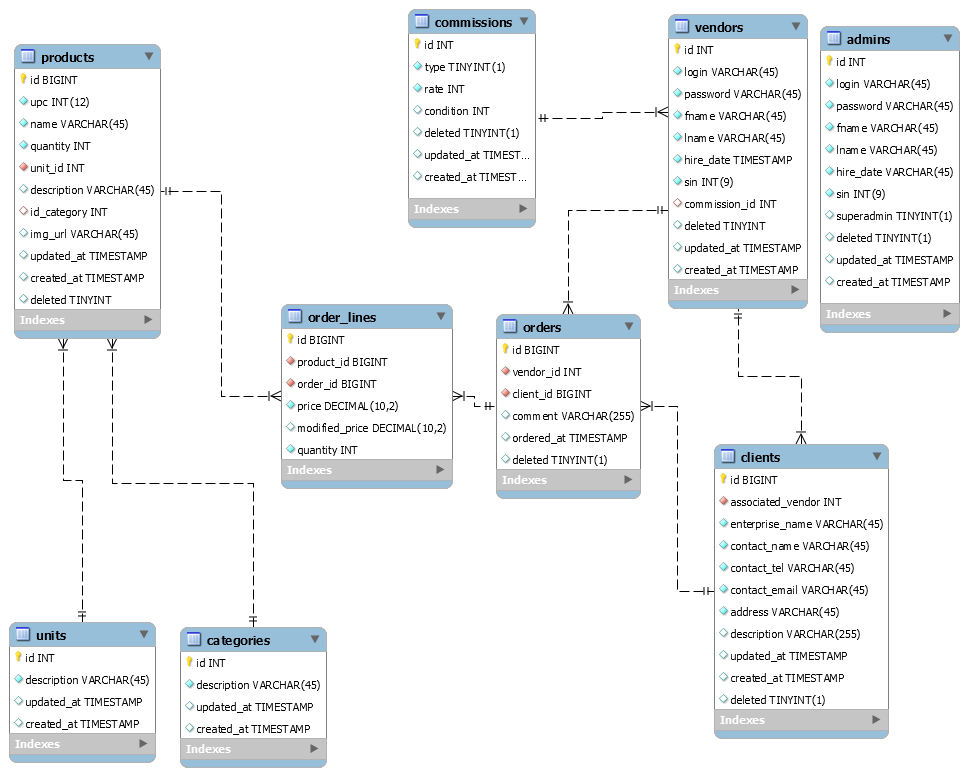
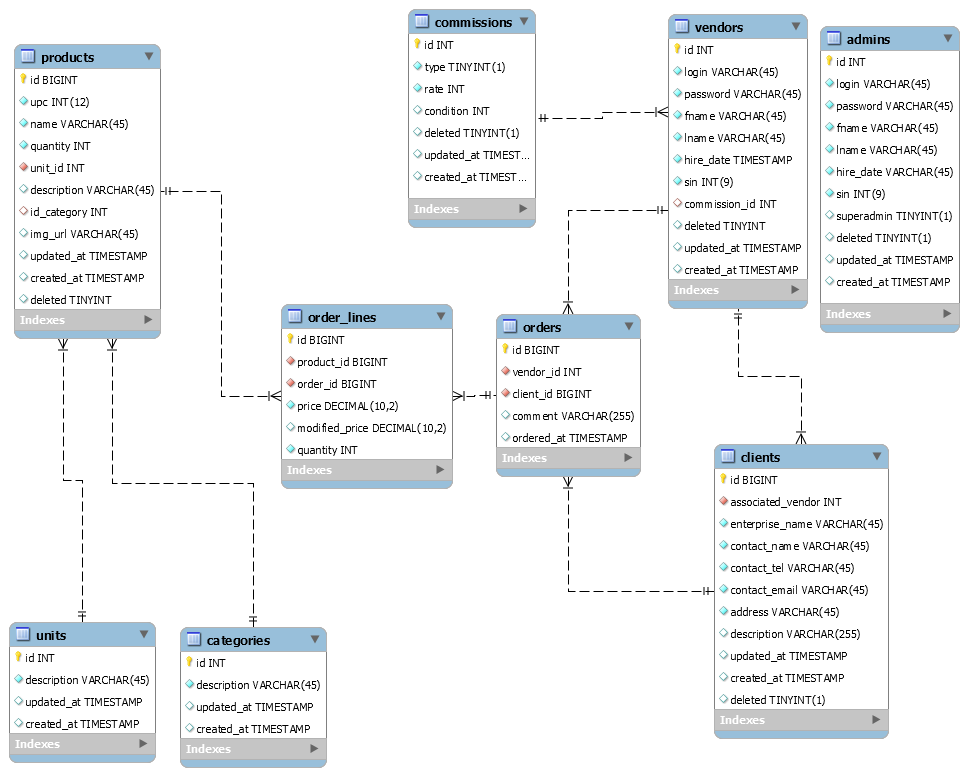
Removed deleted field and attribute from order

Changed region(s): [[0.4948, 0.5553, 0.6804, 0.6478], [0.4948, 0.4936, 0.5258, 0.5244]]

diff --git a/src/com/devsolutions/camelus/entities/Order.java b/src/com/devsolutions/camelus/entities/Order.java
@@ -8,7 +8,6 @@ public class Order {
 	private long client_id;
 	private String comment;
 	private Date oderedAt;
-	private int deleted;
 
 	public long getId() {
 		return id;
@@ -48,14 +47,6 @@ public class Order {
 
 	public void setOderedAt(Date oderedAt) {
 		this.oderedAt = oderedAt;
-	}
-
-	public int getDeleted() {
-		return deleted;
-	}
-
-	public void setDeleted(int deleted) {
-		this.deleted = deleted;
 	}
 
 }
